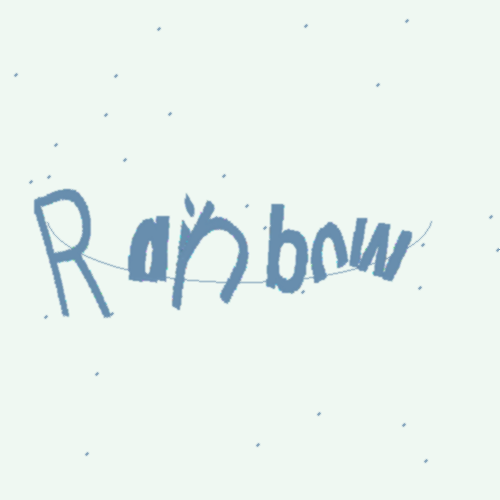
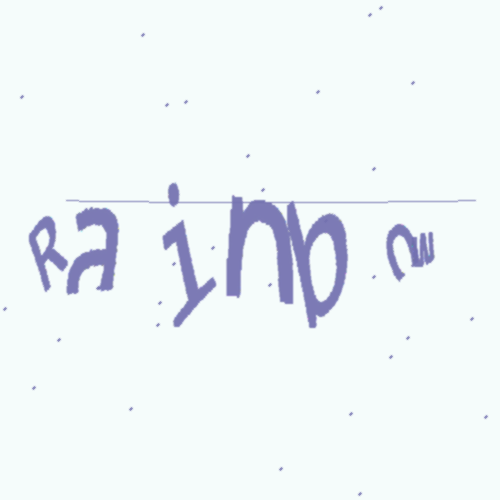
Got rid of needing a font_path because it would only work on devices that have the exact same path to the font files

Changed region(s): [[0.06, 0.36, 0.96, 0.66], [0.99, 0.48, 1.0, 0.51]]

diff --git a/loginpage.py b/loginpage.py
@@ -1,9 +1,11 @@
 import tkinter
 from tkinter import messagebox
+from tkinter import font
 import sqlite3 
 import random
 from captcha.image import ImageCaptcha
 from PIL import Image
+
 
 window = tkinter.Tk() #Initialise the window
 window.title('Login Page') #Title the Window
@@ -208,14 +210,8 @@ def generate_captcha():
     global captcha_word
     captcha_index = random.randint(0,19)
     captcha_word = word_list[captcha_index]
-    font_path = ["H:\\College\\cs\\NEA\\.vscode\\open-sans\\OpenSans-Bold.ttf", "H:\\College\\cs\\NEA\\.vscode\\open-sans\\OpenSans-BoldItalic.ttf",
-                  "H:\\College\\cs\\NEA\\.vscode\\open-sans\\OpenSans-ExtraBold.ttf", "H:\\College\\cs\\NEA\\.vscode\\open-sans\\OpenSans-ExtraBoldItalic.ttf",
-                   "H:\\College\\cs\\NEA\\.vscode\\open-sans\\OpenSans-Italic.ttf", "H:\\College\\cs\\NEA\\.vscode\\open-sans\\OpenSans-Light.ttf",
-                    "H:\\College\\cs\\NEA\\.vscode\\open-sans\\OpenSans-LightItalic.ttf", "H:\\College\\cs\\NEA\\.vscode\\open-sans\\OpenSans-Regular.ttf",
-                     "H:\\College\\cs\\NEA\\.vscode\\open-sans\\OpenSans-Semibold.ttf", "H:\\College\\cs\\NEA\\.vscode\\open-sans\\OpenSans-SemiboldItalic.ttf"] # paths to the downloaded fonts
     
-    captcha = ImageCaptcha(width=500, height=500, fonts=font_path,
-                           font_sizes=(40, 70, 100, 120))
+    captcha = ImageCaptcha(width=500, height=500, font_sizes=(40, 70, 100, 120))
     captcha.write(captcha_word, "captcha.png") # Generate the captcha image and save it to file
 
     captcha_image = Image.open("captcha.png") #Open the saved image
